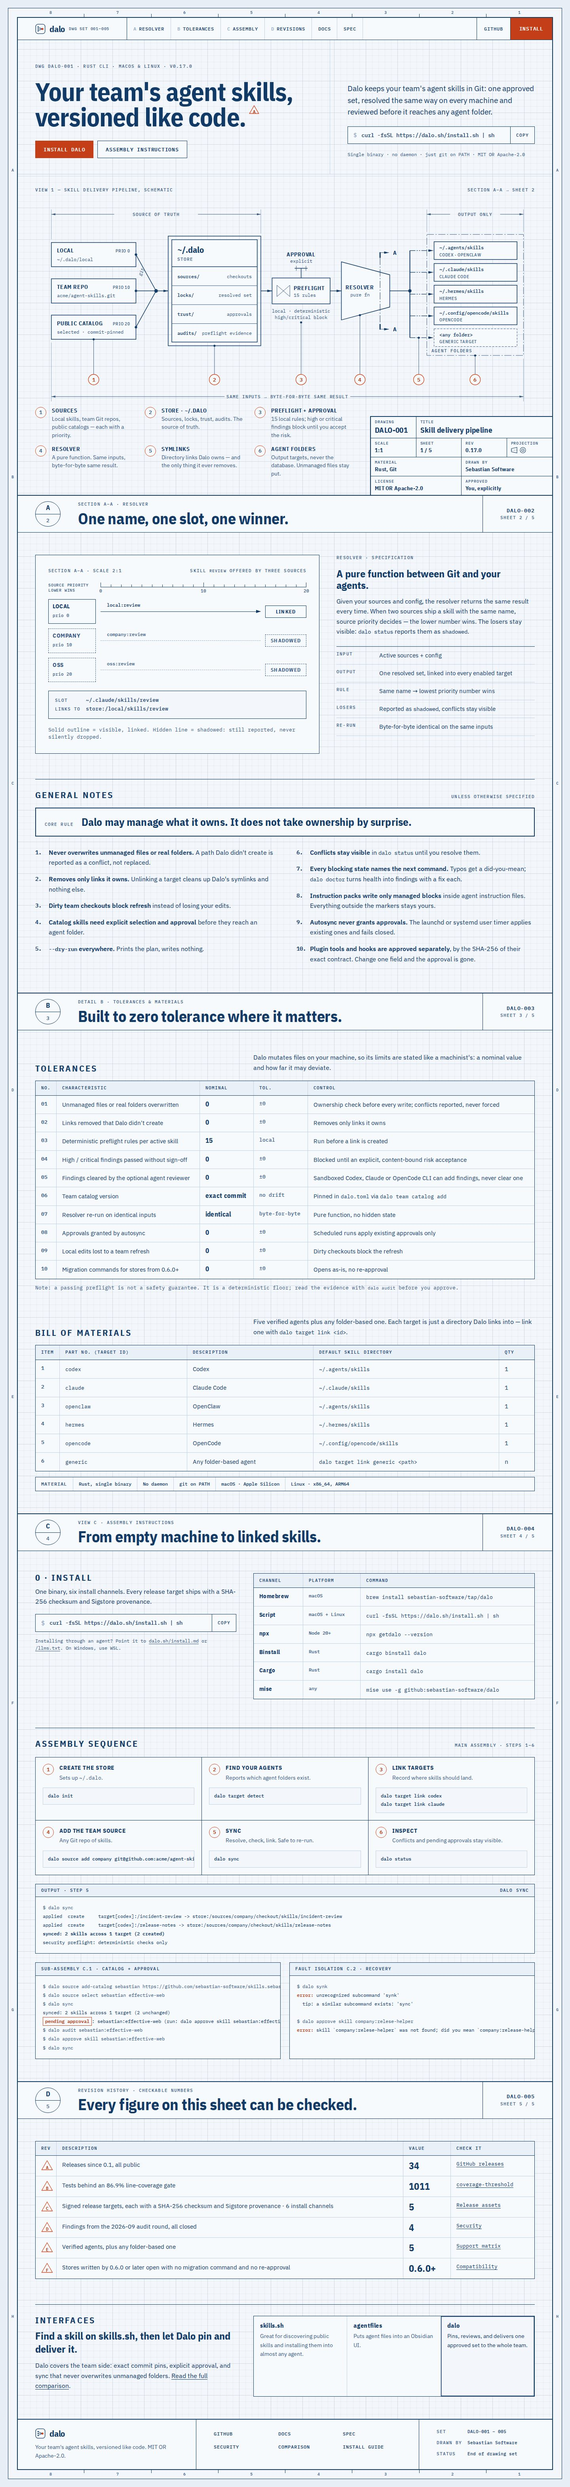
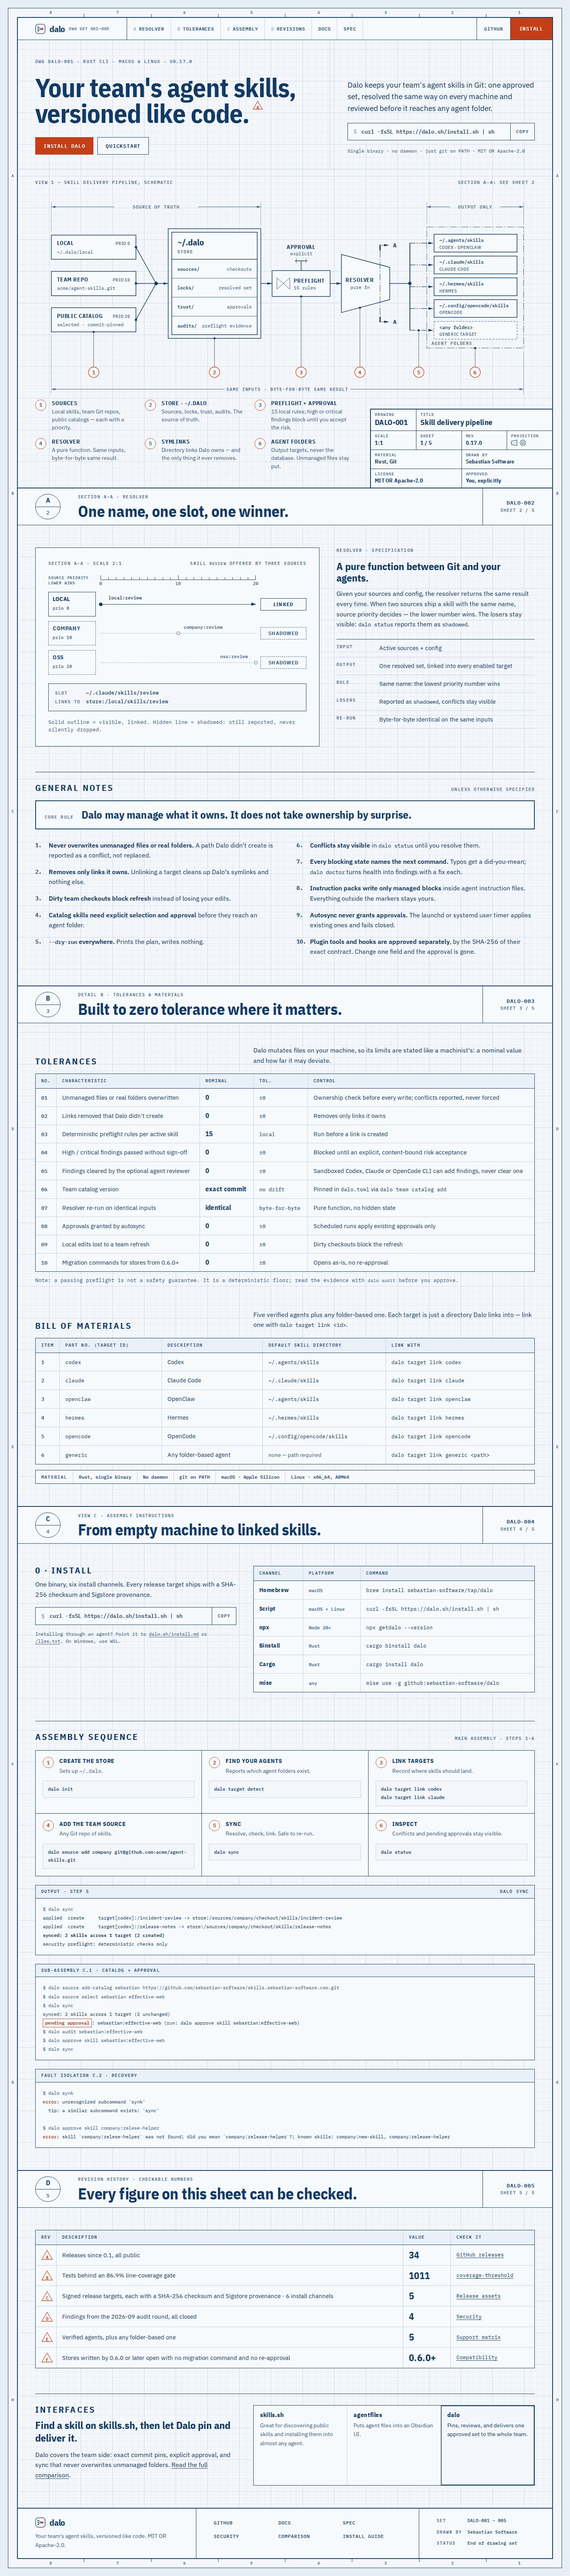
docs(design): finish blueprint homepage concept
Claude-Session: https://claude.ai/code/session_01LLzwYXJYwYFRLz2bkiv4nZ

diff --git a/design/homepage-concepts/02-blueprint/index.html b/design/homepage-concepts/02-blueprint/index.html
@@ -161,7 +161,7 @@ code { font-size: .9em; }
 .hero-top { display: grid; grid-template-columns: minmax(0, 7fr) minmax(0, 5fr); gap: 0; border-bottom: 1px solid var(--ink-4); }
 .hero-top > div:first-child { display: flex; flex-direction: column; }
 .hero-top .cta { margin-top: 28px; }
-.hero-top > div { padding: clamp(28px, 3.4vw, 48px) var(--pad) clamp(24px, 3vw, 40px); }
+.hero-top > div { padding: clamp(24px, 2.6vw, 36px) var(--pad) clamp(24px, 2.6vw, 36px); }
 .hero-top > div + div { border-left: 1px solid var(--ink-4); display: flex; flex-direction: column; justify-content: flex-end; }
 .hero-top .fine { margin-top: 4px; }
 h1 {
@@ -189,7 +189,7 @@ h1 .l { display: block; }
 .cta { display: flex; flex-wrap: wrap; gap: 10px; }
 .fine { margin: 14px 0 0; font: 400 12px/1.5 var(--mono); color: var(--ink-2); }
 
-.drawing { position: relative; padding: clamp(20px, 2.4vw, 32px) var(--pad) 0; }
+.drawing { position: relative; padding: clamp(18px, 2vw, 26px) var(--pad) 0; }
 .drawing .label { display: flex; justify-content: space-between; gap: 12px; }
 .pipe { display: block; width: 100%; height: auto; overflow: visible; }
 .pipe.v { display: none; max-width: 520px; margin: 0 auto; }
@@ -402,11 +402,13 @@ td code, th code { white-space: nowrap; }
   .spec { margin-top: 36px; }
   .steps { grid-template-columns: repeat(2, minmax(0, 1fr)); }
   .navlinks li:nth-child(n+4) { display: none; }
+  .hero-top { grid-template-columns: minmax(0, 1fr); }
+  .hero-top > div + div { border-left: 0; border-top: 1px solid var(--ink-4); }
+  .lede { max-width: 34em; }
+  h1 { font-size: clamp(42px, 7vw, 72px); }
+  .cmd { max-width: 560px; }
 }
 @media (max-width: 860px) {
-  .hero-top { grid-template-columns: minmax(0, 1fr); }
-  h1 .l { display: inline; }
-  .hero-top > div + div { border-left: 0; border-top: 1px solid var(--ink-4); }
   .install, .cmp, .block-head { grid-template-columns: minmax(0, 1fr); }
   .pair { grid-template-columns: minmax(0, 1fr); gap: 0; }
   .notes { columns: 1; }
@@ -447,7 +449,13 @@ td code, th code { white-space: nowrap; }
   .rule { grid-template-columns: 1fr; }
   .specs > div { grid-template-columns: 80px 1fr; }
   .foot ul { grid-template-columns: repeat(2, minmax(0, 1fr)); }
+  .mat { display: grid; grid-template-columns: repeat(2, minmax(0, 1fr)); }
+  .mat li { border-right: 0; border-bottom: 1px solid var(--ink-4); }
+  .mat li:nth-child(2n) { border-right: 1px solid var(--ink-4); }
+  .mat li:first-child, .mat li:last-child { grid-column: 1 / -1; border-right: 0; }
+  .mat li:last-child { border-bottom: 0; }
   h1 { max-width: none; }
+  h1 .l { display: inline; }
   table.stack thead { position: absolute; width: 1px; height: 1px; overflow: hidden; clip: rect(0 0 0 0); }
   table.stack, table.stack tbody { display: block; }
   table.stack tr { display: grid; gap: 4px 12px; padding: 14px; border-bottom: 1px solid var(--ink-4); }
@@ -520,7 +528,7 @@ td code, th code { white-space: nowrap; }
             <h1 id="h1"><span class="l">Your team's agent skills,</span> <span class="l">versioned like code.<a class="rev-mark" href="#revisions" aria-label="Revision history"><svg viewBox="0 0 30 26" aria-hidden="true"><path d="M15 1.5 L28.5 24.5 H1.5 Z" fill="none" stroke="#d2461d" stroke-width="1.6"/></svg><span aria-hidden="true">A</span></a></span></h1>
             <div class="cta">
               <a class="btn primary" href="#install">Install dalo</a>
-              <a class="btn" href="#assembly">Assembly instructions</a>
+              <a class="btn" href="#assembly">Quickstart</a>
             </div>
           </div>
           <div>
@@ -531,7 +539,7 @@ td code, th code { white-space: nowrap; }
         </div>
 
         <div class="drawing">
-          <p class="label"><span>View 1 — Skill delivery pipeline, schematic</span><span>Section A–A → sheet 2</span></p>
+          <p class="label"><span>View 1 — Skill delivery pipeline, schematic</span><span>Section A–A: see sheet 2</span></p>
 
           <!-- Horizontal drawing (desktop) -->
           <svg class="pipe h" viewBox="0 0 1240 512" role="img" aria-labelledby="pipe-t pipe-d">
@@ -690,7 +698,7 @@ td code, th code { white-space: nowrap; }
               <line x1="1212" y1="400" x2="1212" y2="506" class="t0"/>
               <line x1="40" y1="494" x2="470" y2="494" class="t1" marker-start="url(#ad)"/>
               <line x1="782" y1="494" x2="1212" y2="494" class="t1" marker-end="url(#ad)"/>
-              <text x="626" y="498" class="td mid">SAME INPUTS → BYTE-FOR-BYTE SAME RESULT</text>
+              <text x="626" y="498" class="td mid">SAME INPUTS · BYTE-FOR-BYTE SAME RESULT</text>
             </g>
           </svg>
 
@@ -808,7 +816,7 @@ td code, th code { white-space: nowrap; }
             <line x1="46" y1="872" x2="46" y2="904" class="t0"/>
             <line x1="352" y1="836" x2="352" y2="904" class="t0"/>
             <line x1="46" y1="894" x2="352" y2="894" class="t1" marker-start="url(#adv)" marker-end="url(#adv)"/>
-            <text x="199" y="886" class="td mid" style="font-size:10px">SAME INPUTS → SAME RESULT</text>
+            <text x="199" y="886" class="td mid" style="font-size:10px">SAME INPUTS · SAME RESULT</text>
           </svg>
         </div>
 
@@ -877,7 +885,7 @@ td code, th code { white-space: nowrap; }
               <dl class="specs">
                 <div><dt>Input</dt><dd>Active sources + config</dd></div>
                 <div><dt>Output</dt><dd>One resolved set, linked into every enabled target</dd></div>
-                <div><dt>Rule</dt><dd>Same name → lowest priority number wins</dd></div>
+                <div><dt>Rule</dt><dd>Same name: the lowest priority number wins</dd></div>
                 <div><dt>Losers</dt><dd>Reported as <code>shadowed</code>, conflicts stay visible</dd></div>
                 <div><dt>Re-run</dt><dd>Byte-for-byte identical on the same inputs</dd></div>
               </dl>
